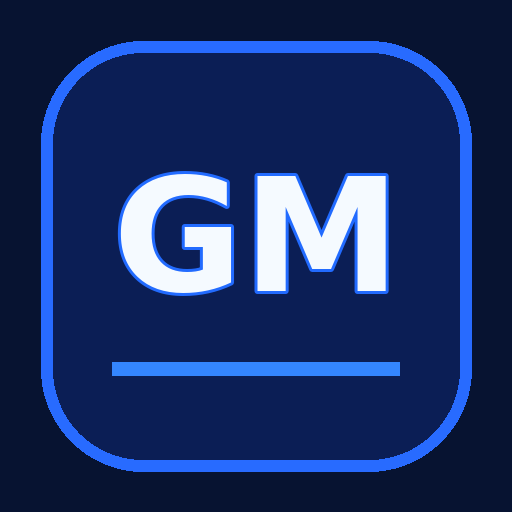
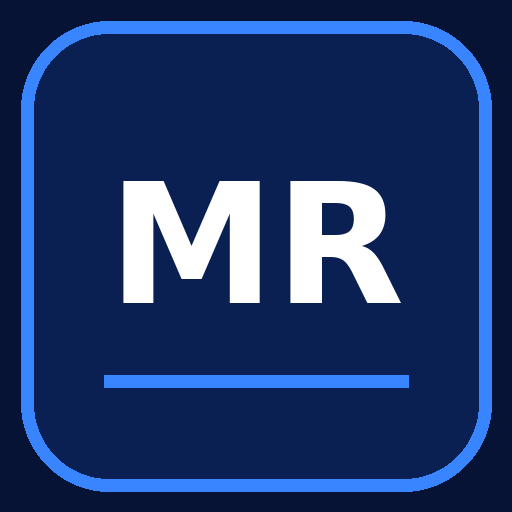
Add files via upload

diff --git a/index.html b/index.html
@@ -140,7 +140,7 @@ body[data-gm-focus="lesson"] #gmTools,body[data-gm-focus="lesson"] #micLab{displ
 #micGauge{position:relative!important}
 #micGauge::after{content:"";position:absolute;left:50%;top:0;bottom:0;width:3px;transform:translateX(-50%);background:#30e69a;box-shadow:0 0 0 1px #072a2b,0 0 9px #21e9a0;z-index:5;pointer-events:none}
 #gmTunerCenterLabel{font-weight:750;color:#54f2b0;text-align:center;margin:5px 0 12px;font-size:13px}
-</style></head><body><main class="shell"><header class="top"><div><div class="eyebrow">ROCK ACADEMY · VOL. 22.2</div><div class="logo">GUITAR <span>MASTER</span> <span style="font-size:.5em">⚡</span></div></div><div class="chip">🎸 CLÁSICA · ELECTROACÚSTICA · ELÉCTRICA</div></header><div id="homeScreen"><section class="home-art" aria-label="Portada de MR Guitar"><div class="hero-stage"><img class="hero-guitars" src="guitarras-portada-191.webp" alt="Guitarra electroacústica negra, guitarra clásica de madera y guitarra eléctrica sunburst"></div><div class="hero-copy"><div class="tag">MR GUITAR · ROCK ACADEMY</div><h1>APRENDE. <em>PRACTICA.</em> TOCA.</h1></div></section><div class="home-doors"><button type="button" class="home-door" id="goLearning"><span class="em">🎓 🎸</span><b>ESTUDIO / PRÁCTICA</b><small>Aprende con lecciones guiadas de notas, intervalos, acordes, escalas, ritmo y armonía.</small></button><button type="button" class="home-door game" id="goGame"><span class="em">🏆 ⚡</span><b>JUEGO / CONCIERTO</b><small>Identifica notas, encuentra posiciones y construye acordes. Suma puntos y supera tus retos.</small></button></div></div><nav class="subnav" id="sectionNav"><button class="btn ghost" type="button" id="goHome">⌂ INICIO</button><button class="btn secondary" type="button" id="navLearning">🎓 ESTUDIO / PRÁCTICA</button><button class="btn secondary" type="button" id="navGame">⚡ JUEGO</button></nav><div id="workArea"><button id="gmFocusBack" type="button">← Volver a Estudio / Práctica</button><section id="gmTools" class="gm-tools"><div class="gm-tool-links"><button type="button" id="gmOpenTuner">🎯 Afinador</button><button type="button" id="gmOpenListen">🎙 Escuchar guitarra</button><button type="button" id="gmOpenMetro">🥁 Metrónomo</button><button type="button" id="gmOpenReading">🎼 Leer y contar</button></div><div id="gmMetro" class="gm-tool-panel" hidden><h2>🥁 Metrónomo</h2><p>Ajusta la velocidad. Puedes mantener el pulso mientras practicas otras secciones.</p><div class="gm-tempo"><button id="gmDown" type="button">−5</button><strong id="gmBpmValue">80 BPM</strong><button id="gmUp" type="button">+5</button></div><input id="gmBpm" aria-label="Velocidad del metrónomo" type="range" min="30" max="240" value="80"><label>Compás <select id="gmMeter"><option>4/4</option><option>2/4</option><option>3/4</option><option>6/8</option></select></label><label><input id="gmAccent" type="checkbox" checked> Acentuar primer pulso</label><div id="gmBeats" class="gm-beats"></div><button id="gmPlay" type="button">▶ Iniciar metrónomo</button><p id="gmMetroStatus" aria-live="polite">Detenido</p></div><div id="gmReading" class="gm-tool-panel" hidden><h2>🎼 Ritmo y tablatura · Leer y contar</h2><p>Selecciona una figura: verás su escritura en el pentagrama, su duración y cómo contarla.</p><div class="gm-figures"><button data-gmfig="whole">Redonda</button><button data-gmfig="half">Blanca</button><button data-gmfig="quarter">Negra</button><button data-gmfig="eighth">Corchea</button><button data-gmfig="sixteenth">Semicorchea</button></div><svg id="gmStaff" viewBox="0 0 480 170" role="img" aria-label="Pentagrama musical interactivo"></svg><div id="gmFigureInfo" aria-live="polite"></div><button id="gmTap" type="button">👆 Marcar pulso</button><span id="gmTapInfo"> Pulsa siguiendo el metrónomo</span></div><div id="gmPractice" class="gm-tool-panel" hidden><h2>🎸 Práctica de notas y escalas</h2><div class="gm-figures"><button type="button" data-gmmode="screen">👆 Pantalla</button><button type="button" data-gmmode="guitar">🎙 Guitarra real</button></div><p id="gmPracticeInfo">Selecciona cómo practicar. Para guitarra real, activa el micrófono en «Escuchar guitarra».</p><label>Ejercicio <select id="gmExercise"><option value="chromatic">Cromática: DO–RE–MI–FA–SOL–LA–SI–DO</option><option value="pentatonic">Pentatónica menor de LA: LA–DO–RE–MI–SOL–LA</option></select></label><div id="gmExpected"></div><div id="gmPracticeLive" class="gm-live-feedback" aria-live="polite"><div class="gm-live-target">🎯 Nota solicitada: <strong id="gmPracticeTarget">—</strong></div><div class="gm-live-result" id="gmPracticeResult">Pulsa Iniciar ejercicio</div></div><div class="gm-practice-fret"><svg id="gmPracticeFret" viewBox="0 0 940 250" role="img" aria-label="Diapasón de práctica interactivo"></svg></div><div id="gmPracticeProgress" aria-live="polite">0 notas reconocidas</div><div class="gm-figures"><button id="gmPracticeStart" type="button">▶ Iniciar ejercicio</button><button id="gmPracticeReset" type="button">↺ Reiniciar</button></div><p class="gm-caveat">La evaluación inicial comprueba las notas en orden. La precisión rítmica y los acordes rasgueados requieren calibración adicional.</p></div></section><section id="micLab" hidden><h2>🎙 Escuchar guitarra · Notas y diapasón</h2><p class="mic-small">Toca una sola nota en tu guitarra. La aplicación mostrará su nombre, afinación y todas sus posiciones posibles en el diapasón, según el rango de trastes seleccionado (5, 12, 16 o 24). No es necesario conectar cables.</p><div class="mic-actions"><button id="micStart" type="button">🎙 Activar micrófono</button><button id="micStop" type="button" disabled>Detener</button></div><div id="micStatus" class="mic-status" aria-live="polite">Micrófono apagado. Usa HTTPS y concede permiso cuando lo solicite el navegador.</div><div id="micReadout" aria-live="polite">—</div><div id="micDetails">Afinación estándar: MI · LA · RE · SOL · SI · MI</div><div id="micGauge"><span id="micNeedle"></span></div><div class="field" style="max-width:340px"><label for="micString">Cuerda que estás tocando (opcional)</label><select id="micString"><option value="auto">Automática · posición sugerida</option><option value="0">6ª · MI grave</option><option value="1">5ª · LA</option><option value="2">4ª · RE</option><option value="3">3ª · SOL</option><option value="4">2ª · SI</option><option value="5">1ª · MI agudo</option></select></div><div id="micPosition" class="mic-small" aria-live="polite">Toca una nota para ver todas sus posiciones por octava.</div><svg id="micFret" viewBox="0 0 960 290" role="img" aria-label="Diapasón con ubicaciones de la nota detectada"></svg><p class="mic-small">Todos los círculos tienen el mismo tamaño. El borde blanco marca todas las posiciones con exactamente la misma nota y octava detectadas. Las octavas graves son más oscuras y las agudas más claras. El micrófono no identifica cuerda ni traste. Para mayor precisión, toca una cuerda a la vez y evita el ruido de fondo.</p></section><div id="learningMenu"><h2 class="sectiontitle">TU ACADEMIA · APRENDE PASO A PASO</h2><p class="muted">Cada módulo explica la teoría, la muestra en el diapasón y te permite escucharla.</p><div class="learning-menu"><button type="button" id="quickFret"><span>🎸</span>Diapasón y notas</button><button type="button" id="quickChords"><span>🎼</span>Acordes</button><button type="button" id="quickScales"><span>🎶</span>Escalas y patrones</button><button type="button" id="quickIntervals"><span>🎹</span>Intervalos</button><button type="button" id="quickHarmony"><span>🎼</span>Armonía</button><button type="button" id="quickRhythm"><span>🥁</span>Ritmo y tablatura</button></div></div><h2 class="sectiontitle" id="modeHeading">ELIGE TU DESAFÍO</h2><div class="modes" id="modes"><button class="mode active" data-mode="identify"><span class="ico">🎯</span><b>IDENTIFICA</b><small>¿Qué nota está iluminada?</small></button><button class="mode" data-mode="find"><span class="ico">🔎</span><b>ENCUENTRA</b><small>Localiza la nota en la cuerda.</small></button><button class="mode" data-mode="chord"><span class="ico">🎼</span><b>CHORD MASTER</b><small>Construye y reconoce acordes.</small></button><button class="mode" data-mode="mix"><span class="ico">⚡</span><b>ROCK CHALLENGE</b><small>Todos los retos en un concierto.</small></button></div><div class="layout"><aside class="panel"><h2>⚙ TU SETLIST</h2><div id="gameSettings"><div class="field"><label for="player">NOMBRE DEL ROCKSTAR</label><input id="player" maxlength="24" value="Rockstar" placeholder="Tu nombre"></div><div class="grid2"><div class="field"><label for="seconds">SEGUNDOS / RETO</label><select id="seconds"><option>5</option><option selected>10</option><option>15</option><option>20</option><option>30</option><option>45</option></select></div><div class="field"><label for="count">PREGUNTAS</label><select id="count"><option>10</option><option selected>20</option><option>30</option><option>50</option></select></div></div></div><div class="grid2"><div class="field"><label for="frets">TRASTES</label><select id="frets"><option value="5">0–5</option><option value="12" selected>0–12</option><option value="16">0–16</option><option value="24">0–24</option></select></div><div class="field"><label for="level">DIFICULTAD</label><select id="level"><option value="easy">Principiante</option><option value="medium">Intermedio</option><option value="hard">Avanzado</option></select></div></div><div class="field"><label for="notation">NOTACIÓN MUSICAL</label><select id="notation"><option value="both">DO (C) · ambas</option><option value="latin">DO · RE · MI</option><option value="letter">C · D · E</option></select></div><label class="toggle"><input type="checkbox" id="sound" checked> 🔊 Sonido de guitarra y efectos</label><button id="start" class="btn full">▶ EMPEZAR CONCIERTO</button><button id="study" class="btn secondary full" style="margin-top:9px">🎓 EXPLORAR DIAPASÓN</button><button id="exploreChords" class="btn secondary full" style="margin-top:9px">🎼 EXPLORAR ACORDES</button><button id="exploreScales" class="btn secondary full" style="margin-top:9px">🎶 EXPLORAR ESCALAS</button><div id="scaleExplorer" class="field hide"><label for="scaleRoot">NOTA FUNDAMENTAL</label><select id="scaleRoot"></select><label for="scaleType" style="margin-top:10px;display:block">TIPO DE ESCALA</label><select id="scaleType"></select><label for="scaleView" style="margin-top:10px;display:block">VISUALIZACIÓN</label><select id="scaleView"><option value="position" selected>Patrones de digitación (1–5)</option><option value="all">Diapasón completo</option><option value="range">Por intervalo de trastes</option></select><div id="scalePositionBox" class="hide" style="margin-top:10px"><label for="scalePosition">POSICIÓN</label><select id="scalePosition"><option value="0">Posición 1</option><option value="1">Posición 2</option><option value="2">Posición 3</option><option value="3">Posición 4</option><option value="4">Posición 5</option></select></div><div id="scaleRangeBox" class="hide" style="margin-top:10px"><label>DESDE EL TRASTE</label><select id="scaleFrom"></select><label style="display:block;margin-top:9px">HASTA EL TRASTE</label><select id="scaleTo"></select></div><div id="scaleLesson" class="lesson-box"></div><div class="bottomrow"><button type="button" id="scalePrev" class="btn ghost">← ANTERIOR</button><button type="button" id="scaleNext" class="btn secondary">SIGUIENTE PATRÓN →</button><button type="button" id="scalePractice" class="btn secondary">♪ ESCUCHAR PATRÓN</button></div><div class="field" id="tempoBox"><label for="scaleBpm">VELOCIDAD DE PRÁCTICA · <strong id="bpmValue">60</strong> BPM</label><input type="range" id="scaleBpm" min="40" max="180" step="5" value="60" style="width:100%;accent-color:#2563eb"><p class="muted">Empieza lento; aumenta 5 BPM cuando puedas tocar el patrón sin errores.</p></div><p class="muted">Azul: tónica · Verde: demás notas · Números pequeños: dedo sugerido (1 índice, 2 medio, 3 anular, 4 meñique). Las rutas se calculan en afinación estándar y muestran una octava sin notas duplicadas.</p></div><div id="noteExplorer" class="field hide"><label class="toggle" style="margin:0 0 12px"><input type="checkbox" id="showAccidentals" checked> Mostrar sostenidos / bemoles (notas alteradas)</label><label>RESALTAR NOTAS EN TODO EL DIAPASÓN</label><div id="noteChoices" style="display:grid;grid-template-columns:repeat(4,1fr);gap:7px;margin-top:9px"></div><div class="bottomrow"><button id="allNotes" class="btn ghost" type="button" style="padding:8px 11px">Todas</button><button id="clearNotes" class="btn ghost" type="button" style="padding:8px 11px">Limpiar selección</button></div><p class="muted">Selecciona una o varias notas. Se iluminarán todas sus posiciones en las seis cuerdas. Las notas naturales siempre pueden seleccionarse; las alteradas se pueden ocultar o mostrar.</p></div><div id="theoryExplorer" class="field hide"><div id="theoryContent"></div></div><div id="chordExplorer" class="field hide"><label for="chordRoot">NOTA FUNDAMENTAL</label><select id="chordRoot"></select><label for="chordPick" style="margin-top:10px;display:block">VARIANTE DEL ACORDE</label><select id="chordPick"></select><p class="muted">Toca las posiciones iluminadas o rasguea para escuchar el acorde. X significa cuerda silenciada.</p></div><div class="record" id="record"></div><div class="history" id="history"></div></aside><section class="panel"><div class="stats" id="gameStats"><div class="stat"><small>PREGUNTA</small><strong id="qstat">—</strong></div><div class="stat"><small>PUNTOS</small><strong id="points">0</strong></div><div class="stat"><small>LOGRO</small><strong id="accuracy">—</strong></div><div class="stat"><small>TIEMPO</small><strong id="clock">—</strong></div></div><div class="question" id="question"><small>BIENVENIDO AL ESCENARIO</small><h2>¿LISTO PARA ROCKEAR?</h2><p>Elige un desafío, personaliza tu partida y presiona «Empezar concierto». También puedes explorar libremente las notas de la guitarra.</p></div><div class="timer"><div id="bar"></div></div><div class="fretwrap"><svg id="fretboard" viewBox="0 0 900 286" role="img" aria-label="Diapasón interactivo de seis cuerdas con afinación estándar"></svg><div class="legend">Como en tu guitarra: MI agudo arriba · MI grave abajo · toca una cuerda para escucharla o responder</div></div><div class="study" id="selectedNotes"></div><div class="answers" id="answers"></div><div id="feedback"></div><div class="bottomrow"><button id="submit" class="btn hide">COMPROBAR ACORDE</button><button id="next" class="btn hide">SIGUIENTE →</button><button id="strum" class="btn secondary">🎸 RASGUEAR CUERDAS</button><button id="replay" class="btn ghost">♪ ESCUCHAR</button><span class="muted" id="hint">Afinación estándar E–A–D–G–B–E</span></div></section></div><div class="foot">MR GUITAR · EDICIÓN ROCK ACADEMY · HECHO PARA APRENDER DE VERDAD 🎸</div></div></main><script id="gm-octaves-212">
+</style></head><body><main class="shell"><header class="top"><div><div class="eyebrow">ROCK ACADEMY · VOL. 22.3</div><div class="logo">MR <span>GUITAR</span> <span style="font-size:.5em">⚡</span></div></div><div class="chip">🎸 CLÁSICA · ELECTROACÚSTICA · ELÉCTRICA</div></header><div id="homeScreen"><section class="home-art" aria-label="Portada de MR Guitar"><div class="hero-stage"><img class="hero-guitars" src="guitarras-portada-191.webp" alt="Guitarra electroacústica negra, guitarra clásica de madera y guitarra eléctrica sunburst"></div><div class="hero-copy"><div class="tag">MR GUITAR · ROCK ACADEMY</div><h1>APRENDE. <em>PRACTICA.</em> TOCA.</h1></div></section><div class="home-doors"><button type="button" class="home-door" id="goLearning"><span class="em">🎓 🎸</span><b>ESTUDIO / PRÁCTICA</b><small>Aprende con lecciones guiadas de notas, intervalos, acordes, escalas, ritmo y armonía.</small></button><button type="button" class="home-door game" id="goGame"><span class="em">🏆 ⚡</span><b>JUEGO / CONCIERTO</b><small>Identifica notas, encuentra posiciones y construye acordes. Suma puntos y supera tus retos.</small></button></div></div><nav class="subnav" id="sectionNav"><button class="btn ghost" type="button" id="goHome">⌂ INICIO</button><button class="btn secondary" type="button" id="navLearning">🎓 ESTUDIO / PRÁCTICA</button><button class="btn secondary" type="button" id="navGame">⚡ JUEGO</button></nav><div id="workArea"><button id="gmFocusBack" type="button">← Volver a Estudio / Práctica</button><section id="gmTools" class="gm-tools"><div class="gm-tool-links"><button type="button" id="gmOpenTuner">🎯 Afinador</button><button type="button" id="gmOpenListen">🎙 Escuchar guitarra</button><button type="button" id="gmOpenMetro">🥁 Metrónomo</button><button type="button" id="gmOpenReading">🎼 Leer y contar</button></div><div id="gmMetro" class="gm-tool-panel" hidden><h2>🥁 Metrónomo</h2><p>Ajusta la velocidad. Puedes mantener el pulso mientras practicas otras secciones.</p><div class="gm-tempo"><button id="gmDown" type="button">−5</button><strong id="gmBpmValue">80 BPM</strong><button id="gmUp" type="button">+5</button></div><input id="gmBpm" aria-label="Velocidad del metrónomo" type="range" min="30" max="240" value="80"><label>Compás <select id="gmMeter"><option>4/4</option><option>2/4</option><option>3/4</option><option>6/8</option></select></label><label><input id="gmAccent" type="checkbox" checked> Acentuar primer pulso</label><div id="gmBeats" class="gm-beats"></div><button id="gmPlay" type="button">▶ Iniciar metrónomo</button><p id="gmMetroStatus" aria-live="polite">Detenido</p></div><div id="gmReading" class="gm-tool-panel" hidden><h2>🎼 Ritmo y tablatura · Leer y contar</h2><p>Selecciona una figura: verás su escritura en el pentagrama, su duración y cómo contarla.</p><div class="gm-figures"><button data-gmfig="whole">Redonda</button><button data-gmfig="half">Blanca</button><button data-gmfig="quarter">Negra</button><button data-gmfig="eighth">Corchea</button><button data-gmfig="sixteenth">Semicorchea</button></div><svg id="gmStaff" viewBox="0 0 480 170" role="img" aria-label="Pentagrama musical interactivo"></svg><div id="gmFigureInfo" aria-live="polite"></div><button id="gmTap" type="button">👆 Marcar pulso</button><span id="gmTapInfo"> Pulsa siguiendo el metrónomo</span></div><div id="gmPractice" class="gm-tool-panel" hidden><h2>🎸 Práctica de notas y escalas</h2><div class="gm-figures"><button type="button" data-gmmode="screen">👆 Pantalla</button><button type="button" data-gmmode="guitar">🎙 Guitarra real</button></div><p id="gmPracticeInfo">Selecciona cómo practicar. Para guitarra real, activa el micrófono en «Escuchar guitarra».</p><label>Ejercicio <select id="gmExercise"><option value="chromatic">Cromática: DO–RE–MI–FA–SOL–LA–SI–DO</option><option value="pentatonic">Pentatónica menor de LA: LA–DO–RE–MI–SOL–LA</option></select></label><div id="gmExpected"></div><div id="gmPracticeLive" class="gm-live-feedback" aria-live="polite"><div class="gm-live-target">🎯 Nota solicitada: <strong id="gmPracticeTarget">—</strong></div><div class="gm-live-result" id="gmPracticeResult">Pulsa Iniciar ejercicio</div></div><div class="gm-practice-fret"><svg id="gmPracticeFret" viewBox="0 0 940 250" role="img" aria-label="Diapasón de práctica interactivo"></svg></div><div id="gmPracticeProgress" aria-live="polite">0 notas reconocidas</div><div class="gm-figures"><button id="gmPracticeStart" type="button">▶ Iniciar ejercicio</button><button id="gmPracticeReset" type="button">↺ Reiniciar</button></div><p class="gm-caveat">La evaluación inicial comprueba las notas en orden. La precisión rítmica y los acordes rasgueados requieren calibración adicional.</p></div></section><section id="micLab" hidden><h2>🎙 Escuchar guitarra · Notas y diapasón</h2><p class="mic-small">Toca una sola nota en tu guitarra. La aplicación mostrará su nombre, afinación y todas sus posiciones posibles en el diapasón, según el rango de trastes seleccionado (5, 12, 16 o 24). No es necesario conectar cables.</p><div class="mic-actions"><button id="micStart" type="button">🎙 Activar micrófono</button><button id="micStop" type="button" disabled>Detener</button></div><div id="micStatus" class="mic-status" aria-live="polite">Micrófono apagado. Usa HTTPS y concede permiso cuando lo solicite el navegador.</div><div id="micReadout" aria-live="polite">—</div><div id="micDetails">Afinación estándar: MI · LA · RE · SOL · SI · MI</div><div id="micGauge"><span id="micNeedle"></span></div><div class="field" style="max-width:340px"><label for="micString">Cuerda que estás tocando (opcional)</label><select id="micString"><option value="auto">Automática · posición sugerida</option><option value="0">6ª · MI grave</option><option value="1">5ª · LA</option><option value="2">4ª · RE</option><option value="3">3ª · SOL</option><option value="4">2ª · SI</option><option value="5">1ª · MI agudo</option></select></div><div id="micPosition" class="mic-small" aria-live="polite">Toca una nota para ver todas sus posiciones por octava.</div><svg id="micFret" viewBox="0 0 960 290" role="img" aria-label="Diapasón con ubicaciones de la nota detectada"></svg><p class="mic-small">Todos los círculos tienen el mismo tamaño. El borde blanco marca todas las posiciones con exactamente la misma nota y octava detectadas. Las octavas graves son más oscuras y las agudas más claras. El micrófono no identifica cuerda ni traste. Para mayor precisión, toca una cuerda a la vez y evita el ruido de fondo.</p></section><div id="learningMenu"><h2 class="sectiontitle">TU ACADEMIA · APRENDE PASO A PASO</h2><p class="muted">Cada módulo explica la teoría, la muestra en el diapasón y te permite escucharla.</p><div class="learning-menu"><button type="button" id="quickFret"><span>🎸</span>Diapasón y notas</button><button type="button" id="quickChords"><span>🎼</span>Acordes</button><button type="button" id="quickScales"><span>🎶</span>Escalas y patrones</button><button type="button" id="quickIntervals"><span>🎹</span>Intervalos</button><button type="button" id="quickHarmony"><span>🎼</span>Armonía</button><button type="button" id="quickRhythm"><span>🥁</span>Ritmo y tablatura</button></div></div><h2 class="sectiontitle" id="modeHeading">ELIGE TU DESAFÍO</h2><div class="modes" id="modes"><button class="mode active" data-mode="identify"><span class="ico">🎯</span><b>IDENTIFICA</b><small>¿Qué nota está iluminada?</small></button><button class="mode" data-mode="find"><span class="ico">🔎</span><b>ENCUENTRA</b><small>Localiza la nota en la cuerda.</small></button><button class="mode" data-mode="chord"><span class="ico">🎼</span><b>CHORD MASTER</b><small>Construye y reconoce acordes.</small></button><button class="mode" data-mode="mix"><span class="ico">⚡</span><b>ROCK CHALLENGE</b><small>Todos los retos en un concierto.</small></button></div><div class="layout"><aside class="panel"><h2>⚙ TU SETLIST</h2><div id="gameSettings"><div class="field"><label for="player">NOMBRE DEL ROCKSTAR</label><input id="player" maxlength="24" value="Rockstar" placeholder="Tu nombre"></div><div class="grid2"><div class="field"><label for="seconds">SEGUNDOS / RETO</label><select id="seconds"><option>5</option><option selected>10</option><option>15</option><option>20</option><option>30</option><option>45</option></select></div><div class="field"><label for="count">PREGUNTAS</label><select id="count"><option>10</option><option selected>20</option><option>30</option><option>50</option></select></div></div></div><div class="grid2"><div class="field"><label for="frets">TRASTES</label><select id="frets"><option value="5">0–5</option><option value="12" selected>0–12</option><option value="16">0–16</option><option value="24">0–24</option></select></div><div class="field"><label for="level">DIFICULTAD</label><select id="level"><option value="easy">Principiante</option><option value="medium">Intermedio</option><option value="hard">Avanzado</option></select></div></div><div class="field"><label for="notation">NOTACIÓN MUSICAL</label><select id="notation"><option value="both">DO (C) · ambas</option><option value="latin">DO · RE · MI</option><option value="letter">C · D · E</option></select></div><label class="toggle"><input type="checkbox" id="sound" checked> 🔊 Sonido de guitarra y efectos</label><button id="start" class="btn full">▶ EMPEZAR CONCIERTO</button><button id="study" class="btn secondary full" style="margin-top:9px">🎓 EXPLORAR DIAPASÓN</button><button id="exploreChords" class="btn secondary full" style="margin-top:9px">🎼 EXPLORAR ACORDES</button><button id="exploreScales" class="btn secondary full" style="margin-top:9px">🎶 EXPLORAR ESCALAS</button><div id="scaleExplorer" class="field hide"><label for="scaleRoot">NOTA FUNDAMENTAL</label><select id="scaleRoot"></select><label for="scaleType" style="margin-top:10px;display:block">TIPO DE ESCALA</label><select id="scaleType"></select><label for="scaleView" style="margin-top:10px;display:block">VISUALIZACIÓN</label><select id="scaleView"><option value="position" selected>Patrones de digitación (1–5)</option><option value="all">Diapasón completo</option><option value="range">Por intervalo de trastes</option></select><div id="scalePositionBox" class="hide" style="margin-top:10px"><label for="scalePosition">POSICIÓN</label><select id="scalePosition"><option value="0">Posición 1</option><option value="1">Posición 2</option><option value="2">Posición 3</option><option value="3">Posición 4</option><option value="4">Posición 5</option></select></div><div id="scaleRangeBox" class="hide" style="margin-top:10px"><label>DESDE EL TRASTE</label><select id="scaleFrom"></select><label style="display:block;margin-top:9px">HASTA EL TRASTE</label><select id="scaleTo"></select></div><div id="scaleLesson" class="lesson-box"></div><div class="bottomrow"><button type="button" id="scalePrev" class="btn ghost">← ANTERIOR</button><button type="button" id="scaleNext" class="btn secondary">SIGUIENTE PATRÓN →</button><button type="button" id="scalePractice" class="btn secondary">♪ ESCUCHAR PATRÓN</button></div><div class="field" id="tempoBox"><label for="scaleBpm">VELOCIDAD DE PRÁCTICA · <strong id="bpmValue">60</strong> BPM</label><input type="range" id="scaleBpm" min="40" max="180" step="5" value="60" style="width:100%;accent-color:#2563eb"><p class="muted">Empieza lento; aumenta 5 BPM cuando puedas tocar el patrón sin errores.</p></div><p class="muted">Azul: tónica · Verde: demás notas · Números pequeños: dedo sugerido (1 índice, 2 medio, 3 anular, 4 meñique). Las rutas se calculan en afinación estándar y muestran una octava sin notas duplicadas.</p></div><div id="noteExplorer" class="field hide"><label class="toggle" style="margin:0 0 12px"><input type="checkbox" id="showAccidentals" checked> Mostrar sostenidos / bemoles (notas alteradas)</label><label>RESALTAR NOTAS EN TODO EL DIAPASÓN</label><div id="noteChoices" style="display:grid;grid-template-columns:repeat(4,1fr);gap:7px;margin-top:9px"></div><div class="bottomrow"><button id="allNotes" class="btn ghost" type="button" style="padding:8px 11px">Todas</button><button id="clearNotes" class="btn ghost" type="button" style="padding:8px 11px">Limpiar selección</button></div><p class="muted">Selecciona una o varias notas. Se iluminarán todas sus posiciones en las seis cuerdas. Las notas naturales siempre pueden seleccionarse; las alteradas se pueden ocultar o mostrar.</p></div><div id="theoryExplorer" class="field hide"><div id="theoryContent"></div></div><div id="chordExplorer" class="field hide"><label for="chordRoot">NOTA FUNDAMENTAL</label><select id="chordRoot"></select><label for="chordPick" style="margin-top:10px;display:block">VARIANTE DEL ACORDE</label><select id="chordPick"></select><p class="muted">Toca las posiciones iluminadas o rasguea para escuchar el acorde. X significa cuerda silenciada.</p></div><div class="record" id="record"></div><div class="history" id="history"></div></aside><section class="panel"><div class="stats" id="gameStats"><div class="stat"><small>PREGUNTA</small><strong id="qstat">—</strong></div><div class="stat"><small>PUNTOS</small><strong id="points">0</strong></div><div class="stat"><small>LOGRO</small><strong id="accuracy">—</strong></div><div class="stat"><small>TIEMPO</small><strong id="clock">—</strong></div></div><div class="question" id="question"><small>BIENVENIDO AL ESCENARIO</small><h2>¿LISTO PARA ROCKEAR?</h2><p>Elige un desafío, personaliza tu partida y presiona «Empezar concierto». También puedes explorar libremente las notas de la guitarra.</p></div><div class="timer"><div id="bar"></div></div><div class="fretwrap"><svg id="fretboard" viewBox="0 0 900 286" role="img" aria-label="Diapasón interactivo de seis cuerdas con afinación estándar"></svg><div class="legend">Como en tu guitarra: MI agudo arriba · MI grave abajo · toca una cuerda para escucharla o responder</div></div><div class="study" id="selectedNotes"></div><div class="answers" id="answers"></div><div id="feedback"></div><div class="bottomrow"><button id="submit" class="btn hide">COMPROBAR ACORDE</button><button id="next" class="btn hide">SIGUIENTE →</button><button id="strum" class="btn secondary">🎸 RASGUEAR CUERDAS</button><button id="replay" class="btn ghost">♪ ESCUCHAR</button><span class="muted" id="hint">Afinación estándar E–A–D–G–B–E</span></div></section></div><div class="foot">MR GUITAR · EDICIÓN ROCK ACADEMY · HECHO PARA APRENDER DE VERDAD 🎸</div></div></main><script id="gm-octaves-212">
 window.GM212={
  latin:['DO','DO♯','RE','RE♯','MI','FA','FA♯','SOL','SOL♯','LA','LA♯','SI'],
  eng:['C','C♯','D','D♯','E','F','F♯','G','G♯','A','A♯','B'],

diff --git a/sw.js b/sw.js
@@ -1,4 +1,4 @@
-const CACHE='mr-guitar-v22-2-20261114';
+const CACHE='mr-guitar-v22-3-20261114';
 const ASSETS=['./', './index.html', './manifest.webmanifest', './guitarras-portada-191.webp', './icon-192.png', './icon-512.png', './fundamentos/clasica-natural.webp', './fundamentos/clavijas-acustica.webp', './fundamentos/electrica-sunburst.webp', './fundamentos/electroacustica-negra.webp'];
 self.addEventListener('install',e=>{e.waitUntil(caches.open(CACHE).then(c=>c.addAll(ASSETS)));self.skipWaiting()});
 self.addEventListener('activate',e=>{e.waitUntil(caches.keys().then(keys=>Promise.all(keys.filter(k=>k!==CACHE&&(k.startsWith('guitar-master-')||k.startsWith('mr-guitar-'))).map(k=>caches.delete(k)))));self.clients.claim()});
